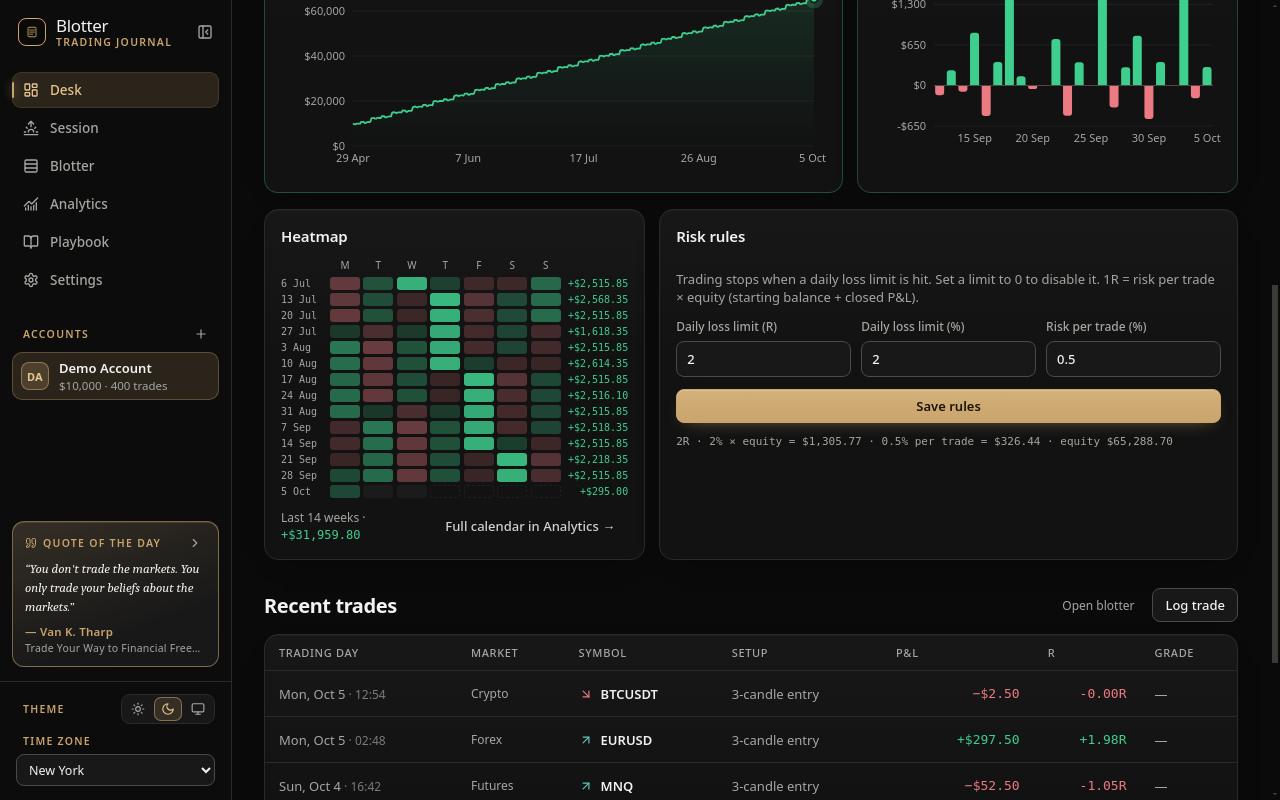
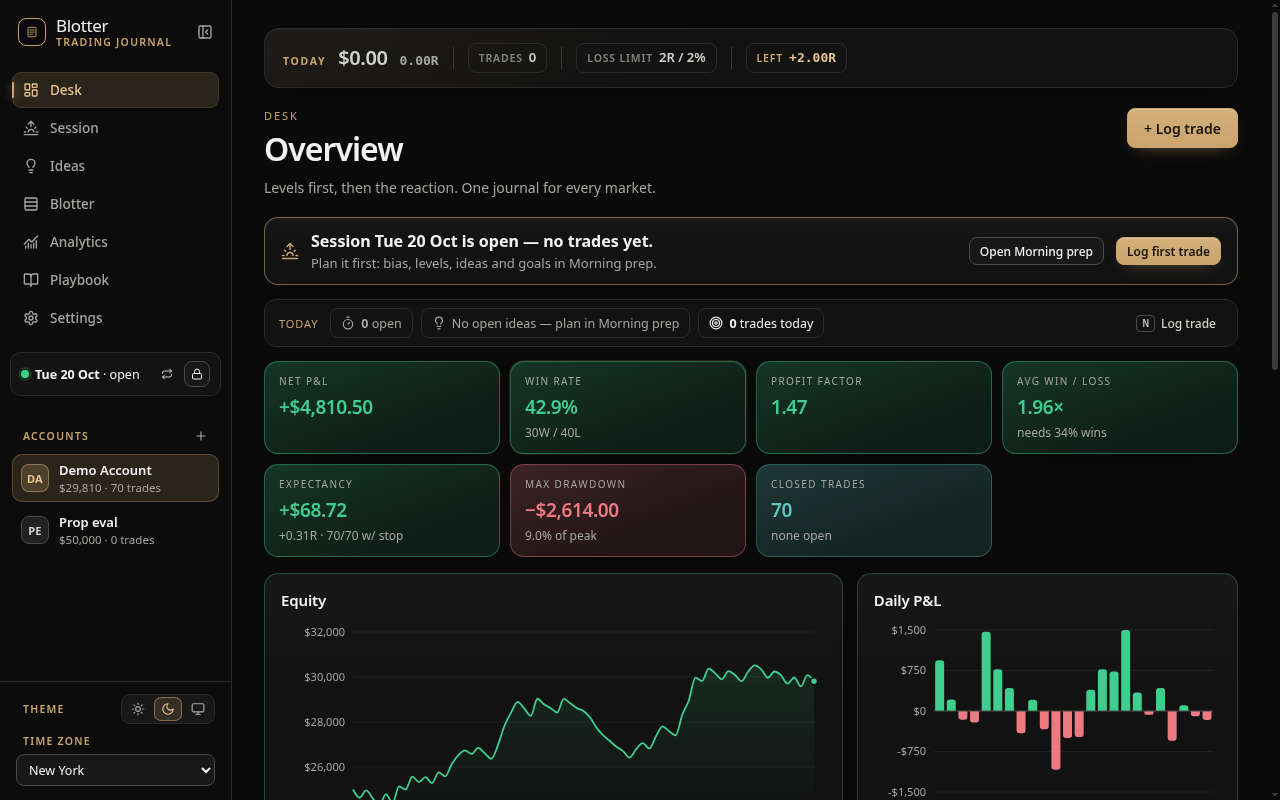
README: update for v0.3.4 (sessions, ideas manager, fee profiles, copy to account) and refresh screenshots

diff --git a/README.md b/README.md
@@ -40,6 +40,18 @@
 
 | | |
 |---|---|
+| ![Desk — KPIs, equity curve, daily P&L, open session](docs/img/desk.png) | ![Log trade — symbol filtered by market, Gross / Fees / Net, exchange fee profile with maker / taker](docs/img/log-trade.png) |
+| **Desk** — net P&L, win rate, profit factor, expectancy, drawdown, equity curve and daily P&L for the open session's account. | **Log trade** — one drawer for the whole ticket. Gross, fees and net update live; crypto fees come from your exchange profile (maker / taker for entry and exit). |
+| ![Session — open session, morning prep, close-out and day log](docs/img/session.png) | ![Ideas — every trade idea with status filters, carry history and bulk actions](docs/img/ideas.png) |
+| **Session** — open a trading day by date, prep before the open, close out after the last trade, and browse the day log. | **Ideas** — every trade idea across sessions: filter, search, edit, carry into today, archive or delete. |
+| ![Trade review — numbers, timing, plan and after-trade notes](docs/img/trade-review.png) | ![Analytics — equity, drawdown, win-rate gauge, consistency](docs/img/analytics.png) |
+| **Trade review** — a read-only summary of one ticket, with previous / next and Edit. | **Analytics** — equity and drawdown, win rate vs break-even, consistency, P&L calendar, playbook performance and more. |
+| ![Copy trade to account — same risk % or same size](docs/img/copy-to-account.png) | ![Settings — exchange fee profiles for Binance and Bybit](docs/img/fee-profiles.png) |
+| **Copy to account** — one-time copy of a ticket to your other accounts, sized by the same risk % or the same size. | **Exchange fee profiles** — Binance USDⓈ-M and Bybit presets, editable, plus your own exchanges. |
+
+<p align="center"><img src="docs/img/desk-light.png" alt="Blotter — light theme" width="640"><br><i>Light theme. All screenshots use fake demo data.</i></p>
+
+---|---|
 | ![Desk — KPIs, equity curve, daily P&L, 14-week heatmap, risk rules](docs/img/desk.png) | ![Log trade — symbol search, Long/Short, levels, confluence, playbook, risk & session tiles](docs/img/log-trade.png) |
 | **Desk** — net P&L, win rate, profit factor, expectancy, drawdown, equity curve, daily P&L and a 14-week heatmap. | **Log trade** — one drawer for the whole ticket: entry, stop, target, size calculator, chart screenshots, confluence and playbook. |
 | ![Session — morning prep, close-out and day log](docs/img/session.png) | ![Analytics — P&L calendar, playbook performance, R-distribution, hour × weekday](docs/img/analytics.png) |
@@ -51,34 +63,42 @@
 
 ## Features
 
-**Journal**
-- **Log trade drawer** — searchable symbol box with your recent symbols, Long/Short, entry / stop / target / exit, open and close time in your time zone.
-- **147 built-in instruments** across futures, forex, crypto, stocks, options and CFDs with correct contract multipliers and tick sizes; edit or add your own.
-- **Position-size calculator** from your risk per trade (% of current equity) and stop distance.
-- **Fees, swap and FX** — per-market defaults, per-symbol overrides, and conversion to your account currency.
-- **Chart screenshots** — Plan / In trade / After, attached from a file or a link.
-- **Confluence & playbook** — price levels, context, mapped levels, setups, notes.
-- **Risk, Session, Idea, Execution and After tiles** — emotions, mistakes, plan adherence, MAE / MFE.
-- **Draft autosave** — an unsaved ticket is restored when you reopen Log trade.
-
-**Daily routine**
+**Sessions — your trading day, by date**
+- **Manual, date-based sessions per account.** You open the session you are trading (today, or any other date) and close it when you are done. Each account has its own open session, and new trades go into it.
 - **Morning prep** — mood, news, bias, goals and trade ideas before the open.
-- **Close-out** — grade your plan, execution, risk and emotional control at the end of the day.
+- **Close-out** — grade your plan, execution, risk and emotional control, and mark each idea Taken, Skipped, Missed or Carry.
 - **Day log** — every trading day with P&L, trades, grade and mood; searchable by notes and symbols.
 - **Trading-day start** — group trades by a custom day boundary (e.g. 17:00 New York for futures/FX).
 
+**Trade ideas**
+- Plan ideas with symbol, direction, setup, levels and notes, then **Log trade from an idea** to prefill the ticket.
+- **Carry over:** ideas still open from earlier sessions are suggested in the next Morning prep — carry them in, or **Dismiss** the ones that are no longer relevant.
+- **Ideas manager** — every idea for the account in one place: filter by Open / Carried / Taken / Skipped / Missed / Archived, date range and symbol, search, edit inline, change status, carry into the open session, archive or delete — one at a time or in bulk. Each idea shows its origin day and carry history.
+
+**Journal**
+- **Log trade drawer** — Long/Short, entry / stop / target / exit, open and close time in your time zone, chart screenshots (Plan / In trade / After), confluence, playbook and the Risk, Session, Idea, Execution, After and *Also log to* tiles.
+- **Symbol search filtered by market** — pick Crypto, Futures, Forex… and the list shows only that market's instruments (with a fallback to other markets if nothing matches).
+- **Built-in instruments** across futures, forex, crypto (including Binance TradFi perps **SPYUSDT** and **QQQUSDT**), stocks, options and CFDs with contract multipliers and tick sizes; edit or add your own.
+- **Gross / Fees / Net** shown live in the drawer header and in every trade review.
+- **Exchange fee profiles** — Binance USDⓈ-M (0.02% maker / 0.05% taker) and Bybit (0.02% / 0.055%) presets, editable, plus your own. Choose maker or taker separately for entry and exit: *fee = entry notional × entry rate + exit notional × exit rate*. Futures keep per-contract fees; saved trades keep their stored fees.
+- **Position-size calculator** from your risk per trade (% of current equity) and stop distance.
+- **Chip editing** for tags, mistakes and goals — type, press Enter, remove with one click.
+- **Trade review** — a read-only summary of any ticket with previous / next navigation and one-click Edit.
+- **Copy trade to account** — copy a ticket to other accounts, sized by the same risk % or the same size, using each account's fees and open session. Copies are independent afterwards.
+- **Draft autosave** — an unsaved ticket is restored when you reopen Log trade.
+
 **Review**
-- **Desk** — KPIs, equity curve, daily P&L, heatmap, recent trades and a "today" strip with your loss limits.
-- **Analytics** — equity and drawdown, win rate, consistency, streaks, P&L calendar, playbook performance, R-multiple distribution, hour × weekday, emotions vs results, mistakes, MAE / MFE.
-- **Blotter** — full trade table with filters, search and inline editing.
+- **Desk** — KPIs, equity curve, daily P&L, recent trades and a "today" strip with your loss limits and open session.
+- **Analytics** — equity and drawdown, win rate vs break-even (with a minimum-sample notice), consistency, streaks, P&L calendar, playbook performance, R-multiple distribution, hour × weekday, emotions vs results, mistakes, MAE / MFE.
+- **Blotter** — full trade table with filters, search, review and copy.
 - **Risk rules** — daily loss limit in R and %, risk per trade; warnings before you break them.
 
-**Data**
+**Money & data**
 - **Multiple accounts** with their own starting balance and currency.
-- **Full backup** to a single `.zip` (trades, screenshots, settings) and restore.
-- **CSV** export/import for Excel and Google Sheets, with a documented column map and an empty template.
-- **Automatic backups** on every close (last 10 kept).
-- Dark and light themes, collapsible sidebar, keyboard-friendly.
+- **Live FX** — daily ECB reference rates convert P&L, fees and risk into your account currency; manual overrides are kept, and offline the last saved rates are used.
+- **Full backup** to a single `.zip` (trades, screenshots, settings) and restore; **CSV** export/import with a documented column map; **automatic backups** on every close (last 10 kept).
+- **Day and night themes** (or follow Windows), collapsible sidebar, keyboard-friendly.
+- **Automatic updates** for the installer version (see [Updating](#updating)).
 
 ---
 
@@ -94,6 +114,8 @@ Blotter makes **exactly two kinds of network requests**, both read-only and both
 | FX rates (ECB reference rates) | `api.frankfurter.dev` | Once per day on start (*Settings → FX rates → Auto-update daily*, can be turned off) and when you click *Update rates* | The list of currency codes, e.g. `?from=USD&to=EUR,GBP,JPY…` |
 
 That's it. Offline? Blotter works fully offline and keeps the last saved FX rates.
+
+**Hardening.** The app window runs sandboxed with context isolation and no Node.js access; a strict Content-Security-Policy only allows the FX host above; navigation away from the app and new windows are blocked (links open in your browser). Updates are verified against the SHA-512 in `latest.yml` before they run.
 
 > If you paste an `https://` link to a chart image (for example a TradingView snapshot), the image is loaded from that site when you view the trade — just like opening the link in a browser.
 
@@ -153,12 +175,12 @@ Each release page lists the hashes for that version in this format:
 | `Blotter-Setup-X.Y.Z.exe` | `<SHA256_SETUP>` |
 | `Blotter-X.Y.Z-portable.exe` | `<SHA256_PORTABLE>` |
 
-**Current release example — [v0.3.0](https://github.com/kishikaisei666/blotter-desktop/releases/tag/v0.3.0):**
+**Current release — [v0.3.4](https://github.com/kishikaisei666/blotter-desktop/releases/tag/v0.3.4):**
 
 | File | SHA-256 |
 |---|---|
[4 lines of base64/hex data omitted]
 
 For newer versions, always use the hashes on that version's release page.
 
@@ -226,14 +248,14 @@ Yes — via CSV (*Settings → Import from Sheets*: upload a file or paste a ran
 **Is it open source?**
 Not at the moment. The app is free to use; the source is kept private. You can verify every release by hash and VirusTotal, and you can check the network table above with any firewall (e.g. Windows Defender Firewall, GlassWire, Wireshark).
 
-**Why is the download ~85 MB?**
+**Why is the download ~110 MB?**
 Blotter is built on Electron, which bundles its own Chromium engine so the app looks and behaves the same on every PC.
 
 **Mac or Linux?**
 Windows only for now.
 
 **Which markets are supported?**
-Futures, forex, crypto, stocks, options and CFDs. Instruments not in the list can be added with your own multiplier, tick size and currency.
+Futures, forex, crypto (including Binance TradFi perps such as SPYUSDT and QQQUSDT), stocks, options and CFDs. Instruments not in the list can be added with your own multiplier, tick size and currency.
 
 **I found a bug / have an idea.**
 Please [open an issue](https://github.com/kishikaisei666/blotter-desktop/issues). Never post your database or screenshots of personal account data publicly.
@@ -253,7 +275,9 @@ The quotes shown in the app are attributed to their authors and sources for educ
 
 ## License
 
-Blotter is **freeware**: free to download and use for personal purposes. The software is proprietary — © 2026 kishikaisei. All rights reserved. Redistribution, resale, modification or reverse-engineering of the binaries is not permitted.
+**© 2026 kishikaisei. Free to use; no resale or redistribution.**
+
+Blotter is freeware: free to download and use. The software is proprietary and all rights are reserved — reselling, redistributing, modifying or reverse-engineering the binaries is not permitted. Please share a link to this page instead of the files.
 
 Blotter includes open-source components (Electron, Chromium, React, better-sqlite3, JSZip and others) under their own licenses; see `LICENSE.electron.txt` and `LICENSES.chromium.html` in the install folder.
 
